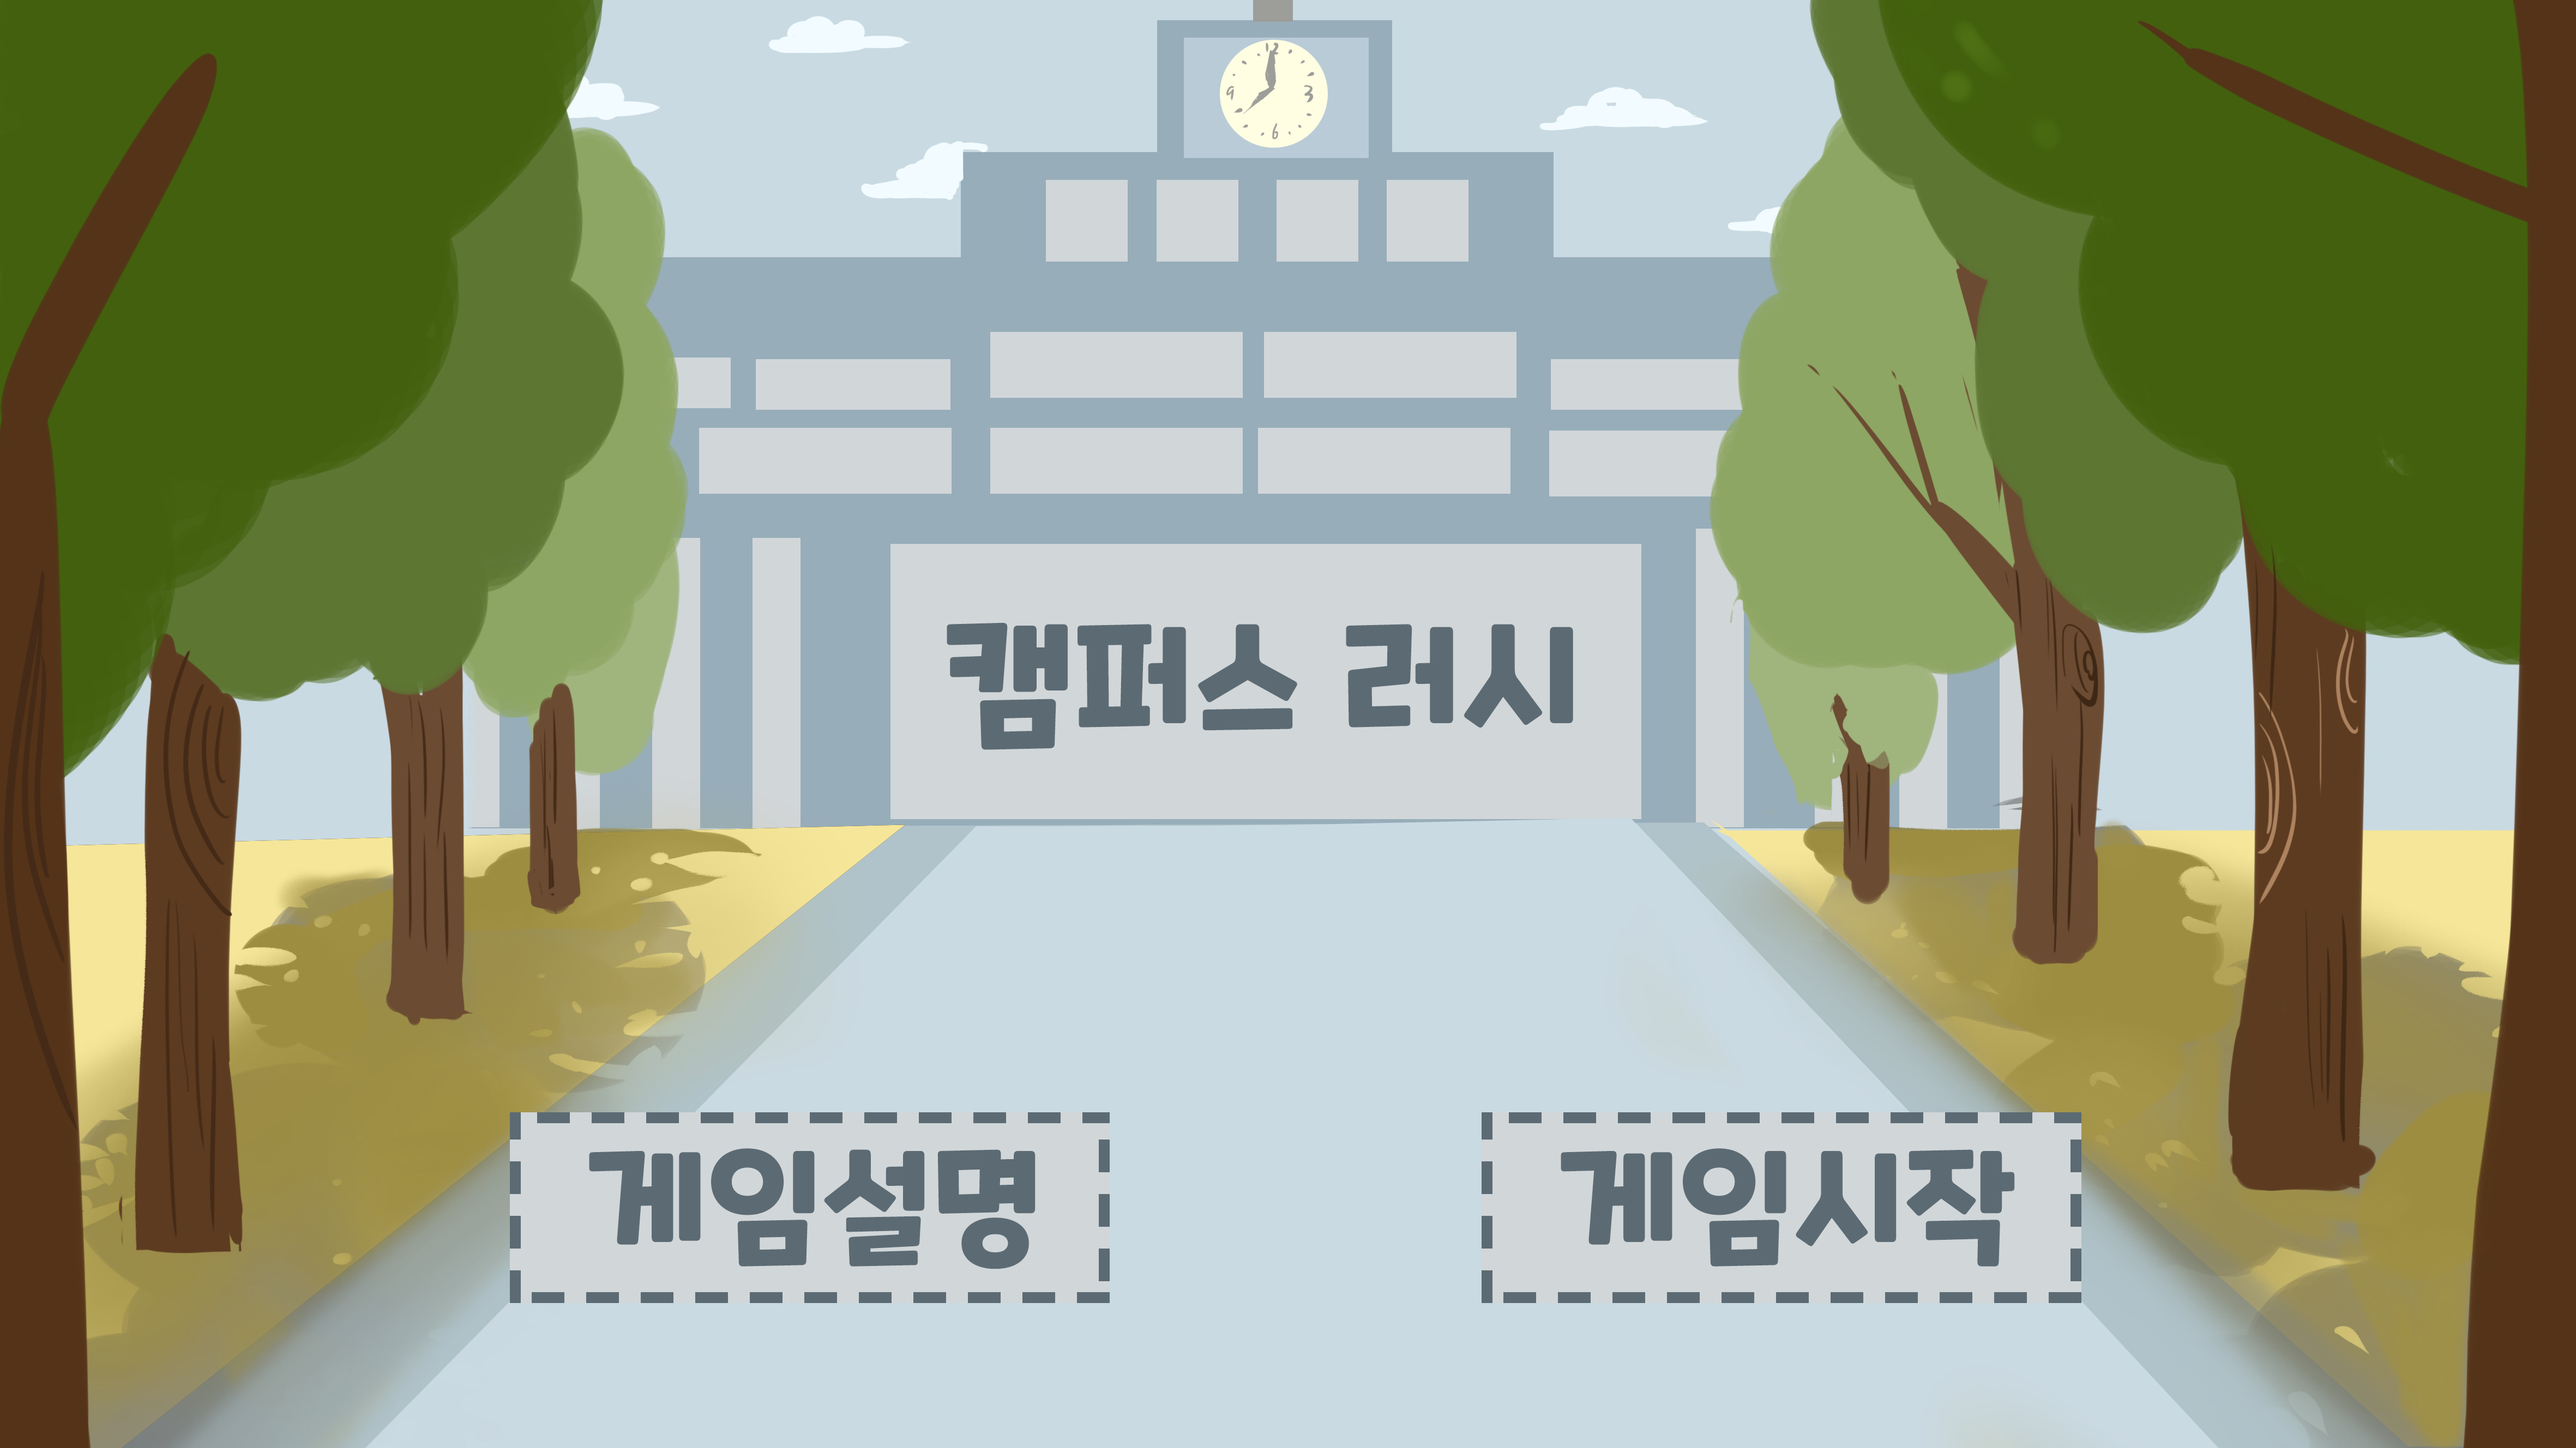
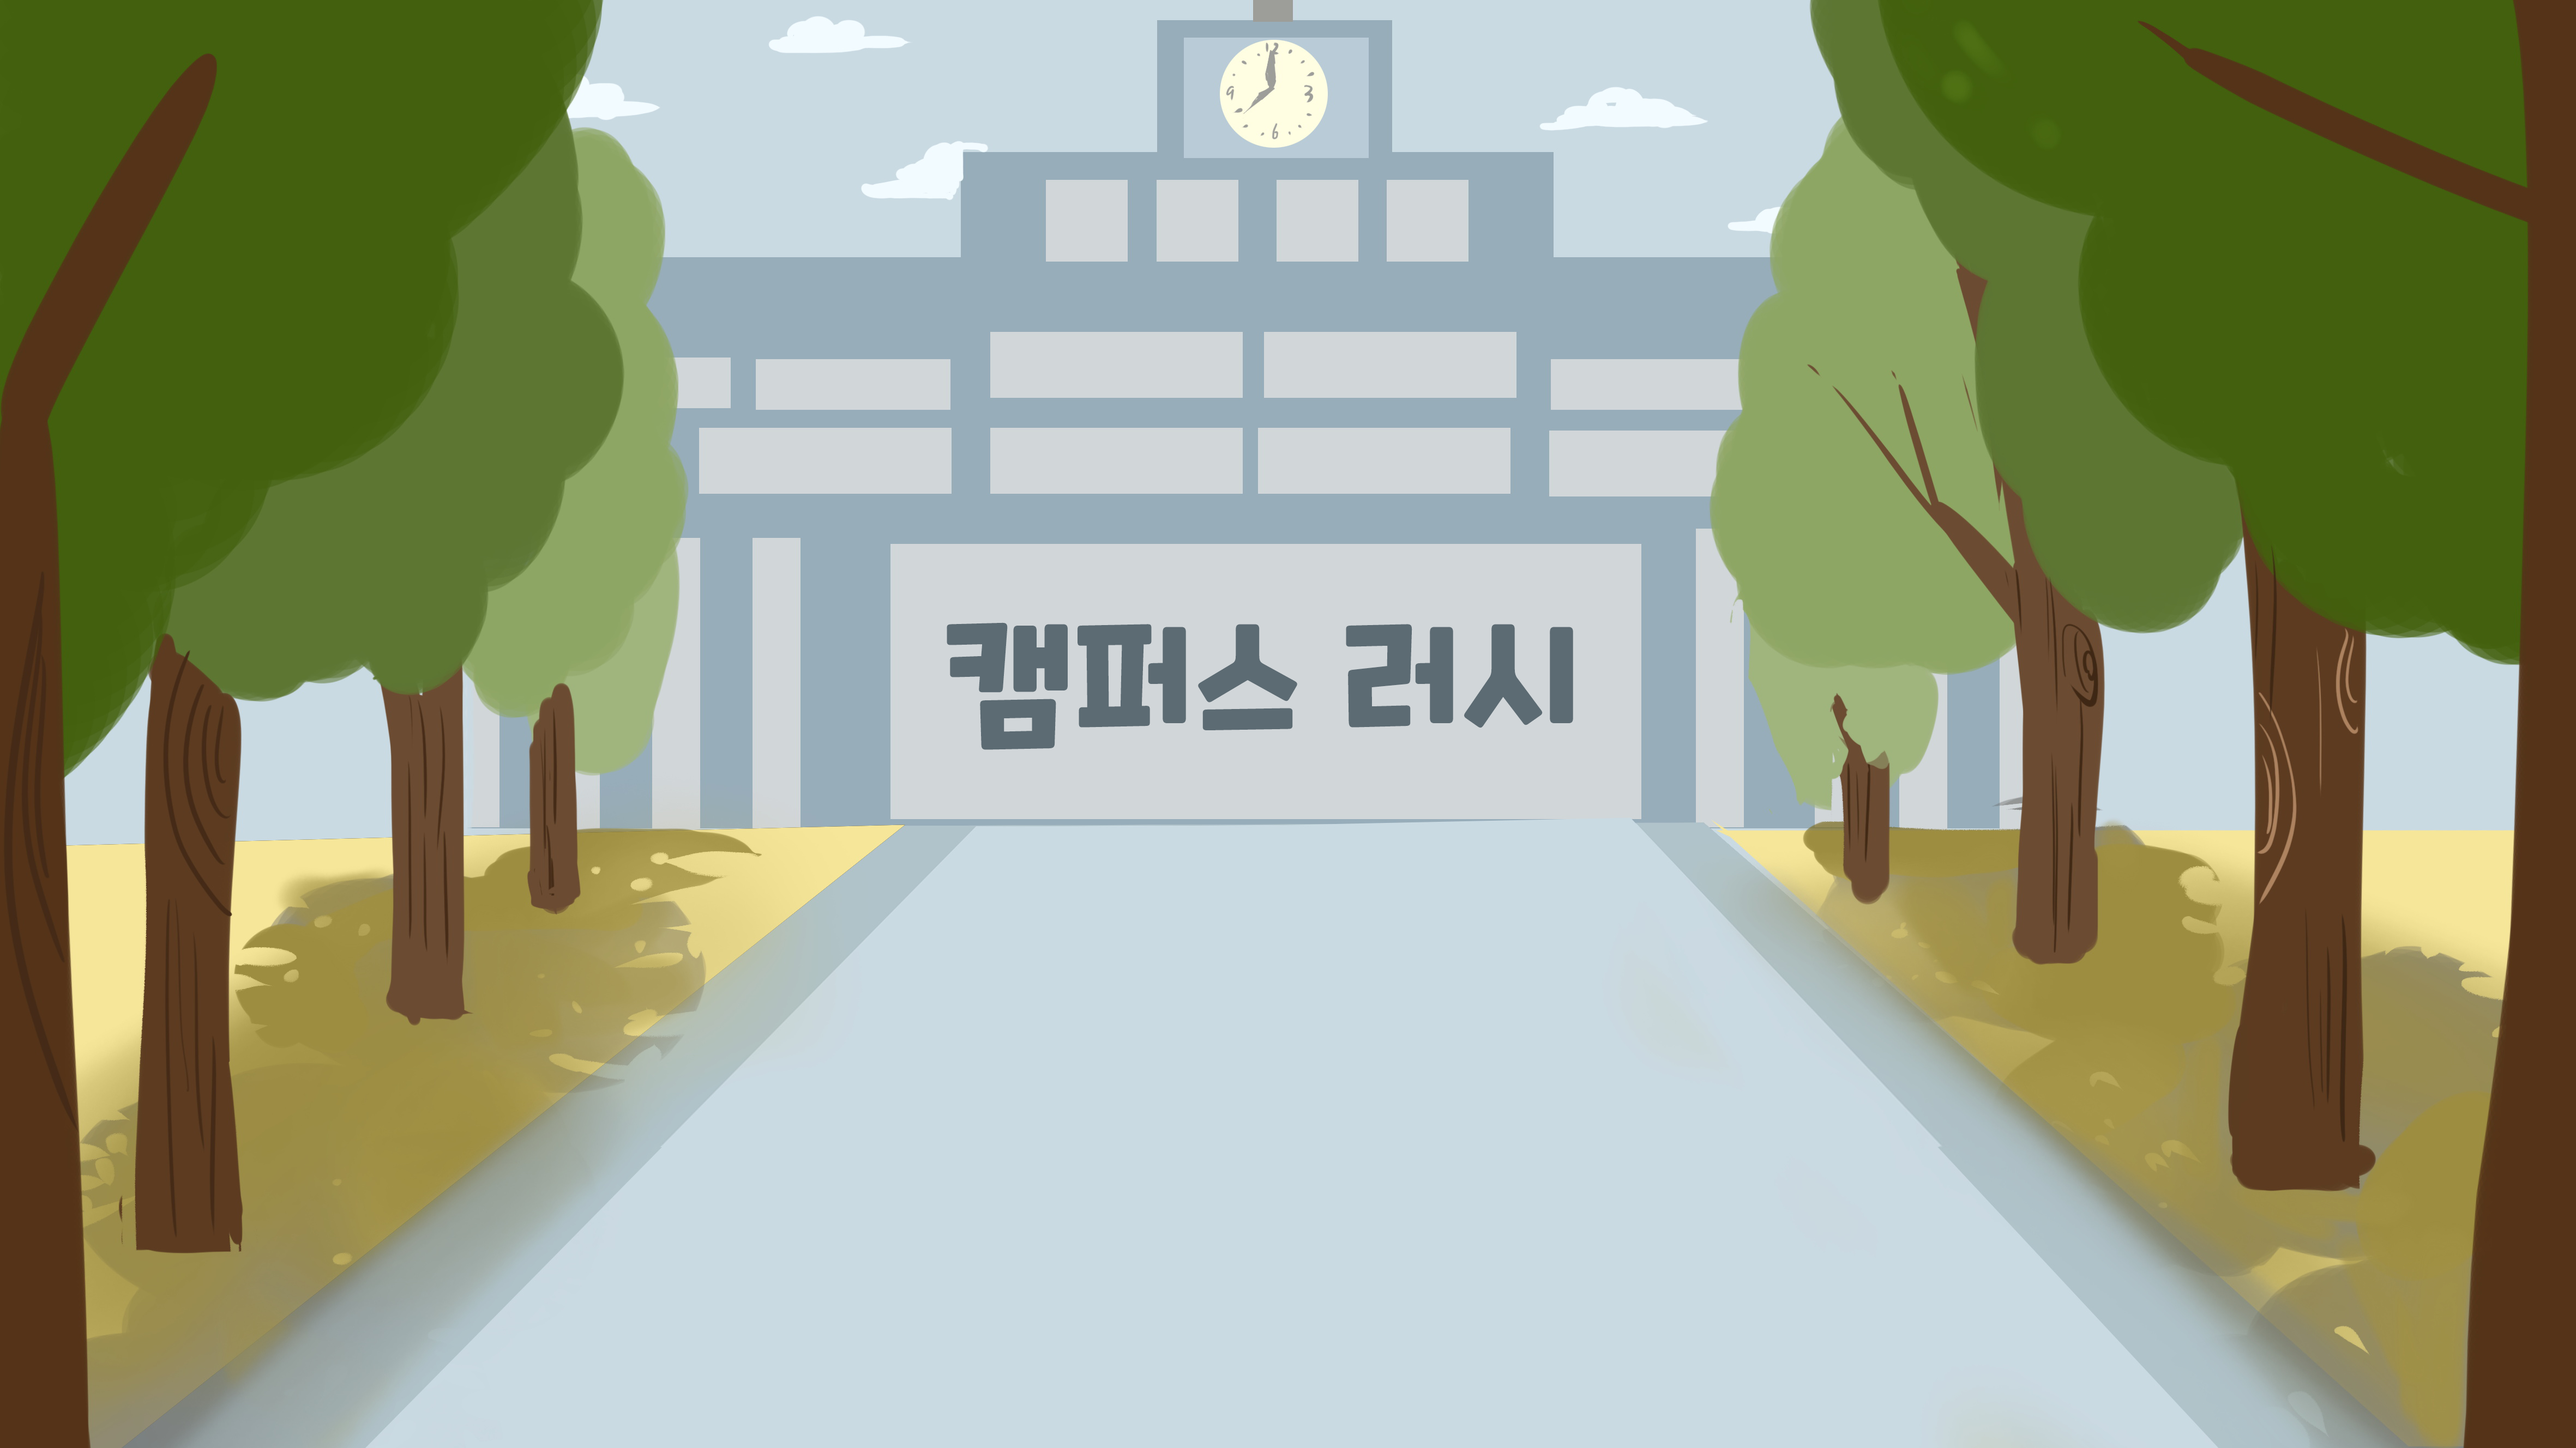
new file:   "graphic/A+ \354\265\234\354\242\205.png" 	new file:   "graphic/B \354\265\234\354\242\205.png" 	new file:   "graphic/C \354\265\234\354\242\205.png" 	new file:   "graphic/D \354\265\234\354\242\205.png" 	new file:   "graphic/F \354\265\234\354\242\205.png" 	deleted:    graphic/KakaoTalk

Changed region(s): [[0.1867, 0.7497, 0.4356, 0.9059], [0.5601, 0.7497, 0.8091, 0.9059]]

diff --git a/main_screen.py b/main_screen.py
@@ -46,11 +46,46 @@ explain_screen = Entity(
 )
 
 def explain():
-    #explain_screen.enable()
     main_screen.texture = 'graphic/explain.png'
+    explain_button.disable()
+    start_button.disable()
+    back_button.enable()
+    start1_button.enable()
   
+# 되돌아가기 버튼
+back_button = Button(
+    model='quad',
+    texture = 'graphic/back.png',
+    scale=(0.22, 0.09),
+    position=(-0.7, -0.39),
+    color= color.white,
+    highlight_color = color.gray,
+    pressed_color = color.white,
+    enabled = False
+    )
+
+# 설명창 시작 버튼
+start1_button = Button(
+    model='quad',
+    texture = 'graphic/start1.png',
+    scale=(0.22, 0.09),
+    position=(0.7, -0.39),
+    color= color.white,
+    highlight_color = color.gray,
+    pressed_color = color.white,
+    enabled = False
+    )
+
+# 메인화면 되돌아가기
+def main():
+    main_screen.texture = 'graphic/main.png'
+    explain_button.enable()
+    start_button.enable()
+    back_button.disable()
+    start1_button.disable()
 
 explain_button.on_click = explain
+back_button.on_click = main
 
 # start_button.on_click = start_game
 
